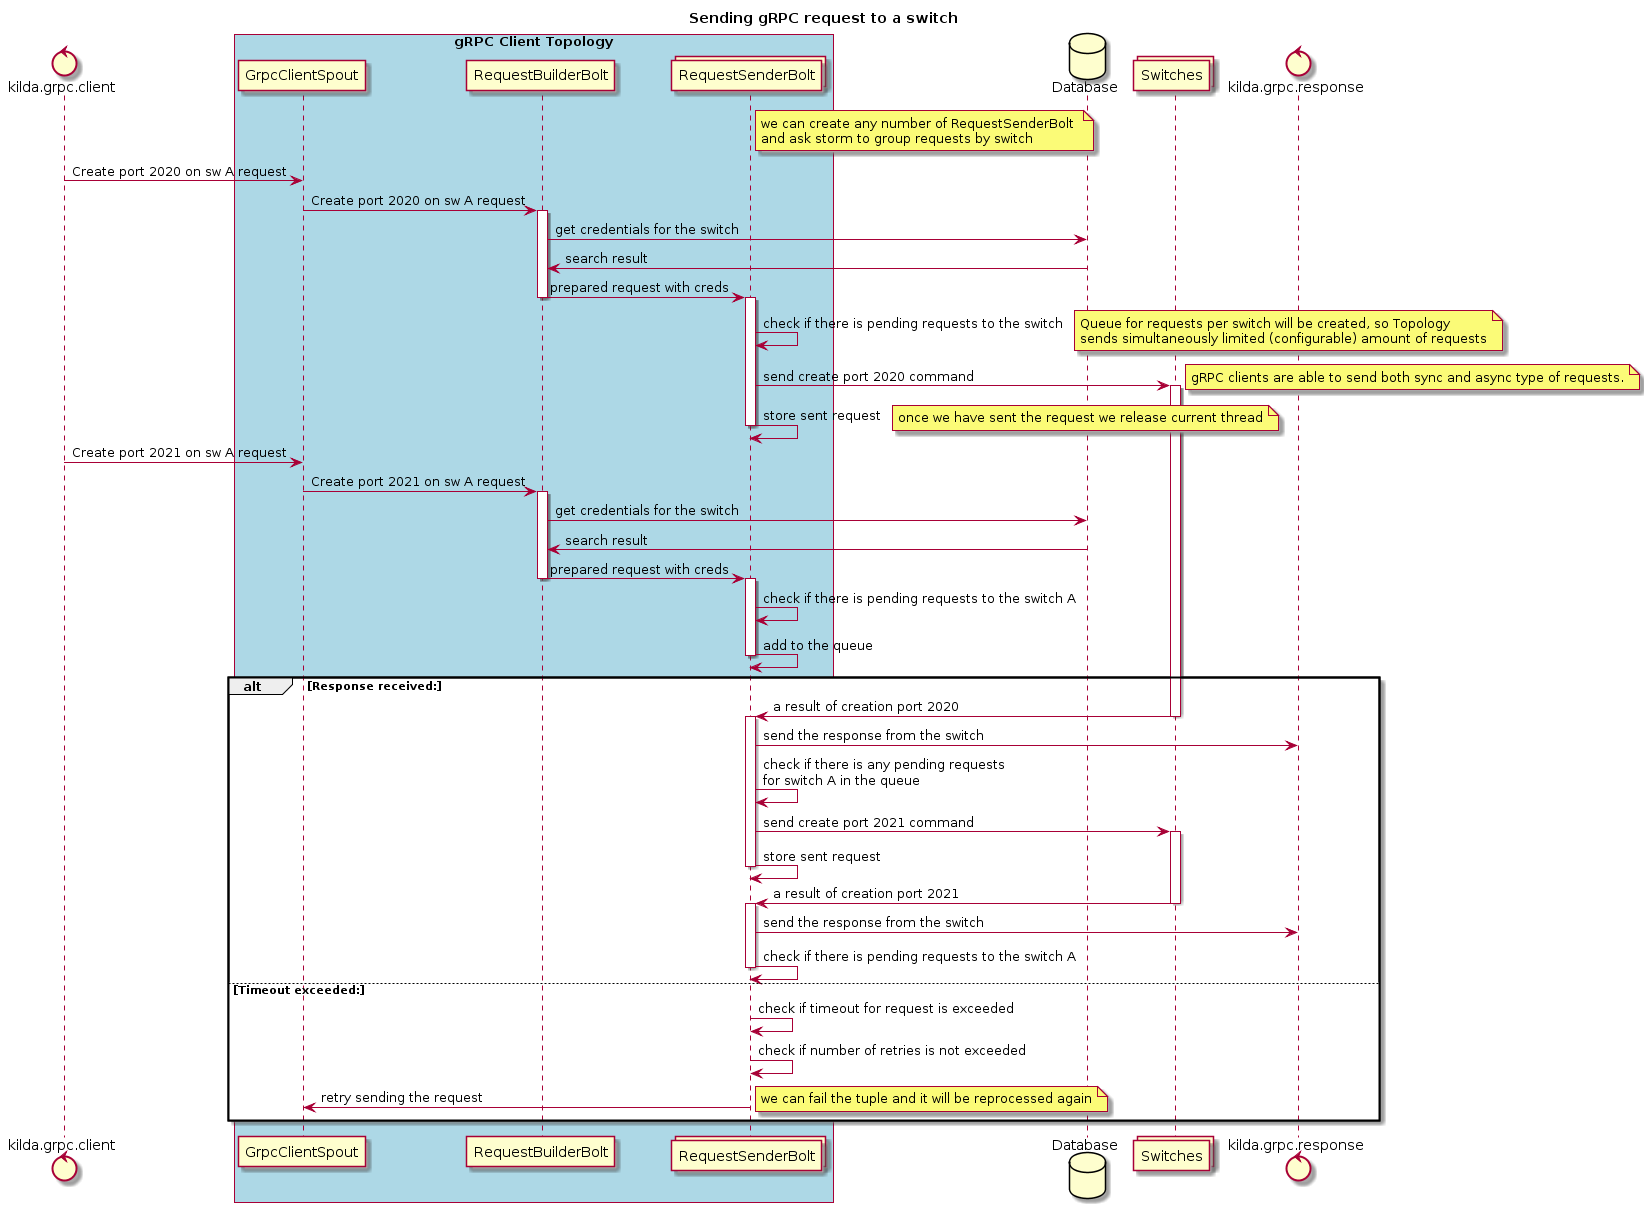
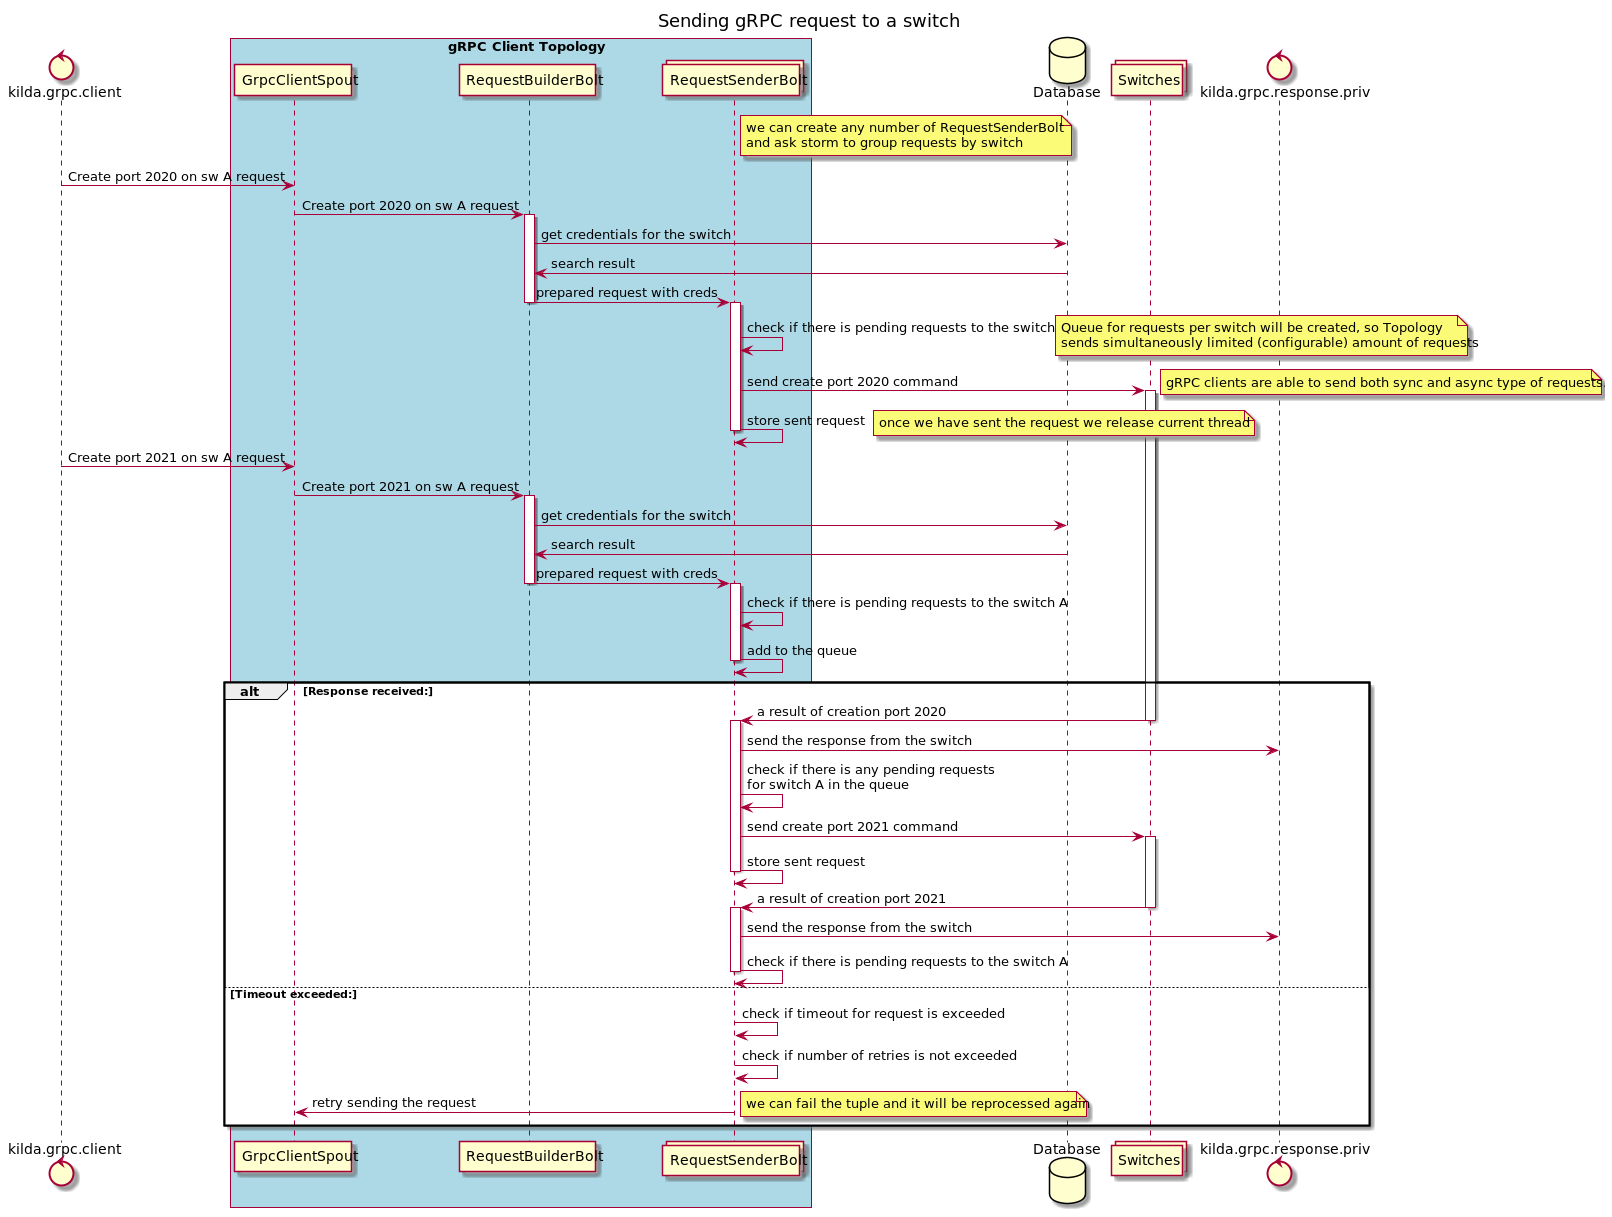
GRPC speaker messaging refactor
* moved hardcoded response topic to config
* renamed response topic from 'grpc.response' to 'kilda.grpc.response.priv'
* changed message handling from CommandData to Message

diff --git a/src-java/grpc-speaker/grpc-service/src/main/java/org/openkilda/grpc/speaker/messaging/MessageProcessor.java b/src-java/grpc-speaker/grpc-service/src/main/java/org/openkilda/grpc/speaker/messaging/MessageProcessor.java
@@ -17,18 +17,24 @@ package org.openkilda.grpc.speaker.messaging;
 
 import org.openkilda.grpc.speaker.mapper.RequestMapper;
 import org.openkilda.grpc.speaker.service.GrpcSenderService;
+import org.openkilda.messaging.Message;
 import org.openkilda.messaging.command.CommandData;
+import org.openkilda.messaging.command.CommandMessage;
 import org.openkilda.messaging.command.grpc.CreateLogicalPortRequest;
 import org.openkilda.messaging.command.grpc.DumpLogicalPortsRequest;
 import org.openkilda.messaging.command.grpc.GetSwitchInfoRequest;
 import org.openkilda.messaging.info.InfoData;
+import org.openkilda.messaging.info.InfoMessage;
 import org.openkilda.messaging.info.grpc.CreateLogicalPortResponse;
 import org.openkilda.messaging.info.grpc.DumpLogicalPortsResponse;
 import org.openkilda.messaging.info.grpc.GetSwitchInfoResponse;
 
+import lombok.extern.slf4j.Slf4j;
 import org.springframework.beans.factory.annotation.Autowired;
+import org.springframework.beans.factory.annotation.Value;
 import org.springframework.stereotype.Component;
 
+@Slf4j
 @Component
 public class MessageProcessor {
 
@@ -41,34 +47,66 @@ public class MessageProcessor {
     @Autowired
     RequestMapper requestMapper;
 
+    @Value("#{kafkaTopicsConfig.getGrpcResponseTopic()}")
+    private String grpcResponseTopic;
+
     // TODO error handling
 
     /**
      * Process request.
      *
-     * @param command a command data.
+     * @param message a message to be processed
      */
-    public void processRequest(CommandData command) {
-        if (command instanceof CreateLogicalPortRequest) {
-            CreateLogicalPortRequest req = (CreateLogicalPortRequest) command;
-            service.createLogicalPort(req.getAddress(), requestMapper.toLogicalPort(req))
-                    .thenAccept(e -> sendResponse(new CreateLogicalPortResponse(req.getAddress(), e, true)));
-
-        } else if (command instanceof DumpLogicalPortsRequest) {
-            DumpLogicalPortsRequest req = (DumpLogicalPortsRequest) command;
-            service.dumpLogicalPorts(req.getAddress())
-                    .thenAccept(e -> sendResponse(new DumpLogicalPortsResponse(req.getAddress(), e)));
-
-        } else if (command instanceof GetSwitchInfoRequest) {
-            GetSwitchInfoRequest req = (GetSwitchInfoRequest) command;
-            service.getSwitchStatus(req.getAddress())
-                    .thenAccept(e -> sendResponse(new GetSwitchInfoResponse(req.getAddress(), e)));
-
+    public void processRequest(Message message) {
+        if (message instanceof CommandMessage) {
+            handleCommandMessage((CommandMessage) message);
+        } else {
+            unhandledMessage(message);
         }
     }
 
-    private void sendResponse(InfoData message) {
-        // TODO topic hardcode
-        messageProducer.send("grpc.response", message);
+    private void handleCommandMessage(CommandMessage command) {
+        CommandData data = command.getData();
+        String correlationId = command.getCorrelationId();
+
+        if (data instanceof CreateLogicalPortRequest) {
+            handleCreateLogicalPortRequest((CreateLogicalPortRequest) data, correlationId);
+        } else if (data instanceof DumpLogicalPortsRequest) {
+            handleDumpLogicalPortsRequest((DumpLogicalPortsRequest) data, correlationId);
+        } else if (data instanceof GetSwitchInfoRequest) {
+            handleGetSwitchInfoRequest((GetSwitchInfoRequest) data, correlationId);
+        } else {
+            unhandledMessage(command);
+        }
+    }
+
+    private void handleCreateLogicalPortRequest(CreateLogicalPortRequest request, String correlationId) {
+        log.info("Creating logical port {} on switch {}", request.getLogicalPortNumber(), request.getAddress());
+        service.createLogicalPort(request.getAddress(), requestMapper.toLogicalPort(request))
+                .thenAccept(port -> sendResponse(
+                        new CreateLogicalPortResponse(request.getAddress(), port, true), correlationId));
+    }
+
+    private void handleDumpLogicalPortsRequest(DumpLogicalPortsRequest request, String correlationId) {
+        log.debug("Dumping logical ports on switch {}", request.getAddress());
+        service.dumpLogicalPorts(request.getAddress())
+                .thenAccept(ports -> sendResponse(
+                        new DumpLogicalPortsResponse(request.getAddress(), ports), correlationId));
+    }
+
+    private void handleGetSwitchInfoRequest(GetSwitchInfoRequest request, String correlationId) {
+        log.debug("Getting switch info for switch {}", request.getAddress());
+        service.getSwitchStatus(request.getAddress())
+                .thenAccept(status -> sendResponse(
+                        new GetSwitchInfoResponse(request.getAddress(), status), correlationId));
+    }
+
+    private void sendResponse(InfoData data, String correlationId) {
+        InfoMessage message = new InfoMessage(data, System.currentTimeMillis(), correlationId);
+        messageProducer.send(grpcResponseTopic, message);
+    }
+
+    private void unhandledMessage(Message message) {
+        log.error("GRPC speaker is unable to handle message {}", message);
     }
 }

diff --git a/src-java/grpc-speaker/grpc-service/src/main/java/org/openkilda/grpc/speaker/messaging/KafkaMessageProducer.java b/src-java/grpc-speaker/grpc-service/src/main/java/org/openkilda/grpc/speaker/messaging/KafkaMessageProducer.java
@@ -15,7 +15,7 @@
 
 package org.openkilda.grpc.speaker.messaging;
 
-import org.openkilda.messaging.info.InfoData;
+import org.openkilda.messaging.Message;
 
 import lombok.extern.slf4j.Slf4j;
 import org.springframework.beans.factory.annotation.Autowired;
@@ -32,14 +32,13 @@ import org.springframework.util.concurrent.ListenableFuture;
 public class KafkaMessageProducer {
 
     @Autowired
-    private KafkaTemplate<String, InfoData> kafkaTemplate;
+    private KafkaTemplate<String, Message> kafkaTemplate;
 
     /**
      * Sends message to kafka topic.
      */
-    // TODO seems like message should be Message subclass
-    public ListenableFuture<SendResult<String, InfoData>> send(String topic, InfoData message) {
-        ListenableFuture<SendResult<String, InfoData>> future = kafkaTemplate.send(topic, message);
+    public ListenableFuture<SendResult<String, Message>> send(String topic, Message message) {
+        ListenableFuture<SendResult<String, Message>> future = kafkaTemplate.send(topic, message);
         future.addCallback(
                 success -> log.debug("Response has been sent: topic={}, message={}", topic, message),
                 error -> log.error("Unable to send message: topic={}, message={}", topic, message, error)

diff --git a/src-java/grpc-speaker/grpc-service/src/main/java/org/openkilda/grpc/speaker/config/MessageProducerConfig.java b/src-java/grpc-speaker/grpc-service/src/main/java/org/openkilda/grpc/speaker/config/MessageProducerConfig.java
@@ -15,7 +15,7 @@
 
 package org.openkilda.grpc.speaker.config;
 
-import org.openkilda.messaging.info.InfoData;
+import org.openkilda.messaging.Message;
 
 import org.apache.kafka.clients.producer.ProducerConfig;
 import org.apache.kafka.common.serialization.StringSerializer;
@@ -69,7 +69,7 @@ public class MessageProducerConfig {
      * @return kafka producer factory
      */
     @Bean
-    public ProducerFactory<String, InfoData> producerFactory() {
+    public ProducerFactory<String, Message> producerFactory() {
         return new DefaultKafkaProducerFactory<>(producerConfigs());
     }
 
@@ -80,7 +80,7 @@ public class MessageProducerConfig {
      * @return kafka template
      */
     @Bean
-    public KafkaTemplate<String, InfoData> kafkaTemplate() {
+    public KafkaTemplate<String, Message> kafkaTemplate() {
         return new KafkaTemplate<>(producerFactory());
     }
 }

diff --git a/src-java/grpc-speaker/grpc-service/src/main/java/org/openkilda/grpc/speaker/messaging/KafkaMessageListener.java b/src-java/grpc-speaker/grpc-service/src/main/java/org/openkilda/grpc/speaker/messaging/KafkaMessageListener.java
@@ -15,7 +15,7 @@
 
 package org.openkilda.grpc.speaker.messaging;
 
-import org.openkilda.messaging.command.CommandMessage;
+import org.openkilda.messaging.Message;
 
 import lombok.extern.slf4j.Slf4j;
 import org.springframework.beans.factory.annotation.Autowired;
@@ -40,8 +40,8 @@ public class KafkaMessageListener {
      * @param message received  message.
      */
     @KafkaHandler
-    public void onMessage(CommandMessage message) {
+    public void onMessage(Message message) {
         log.debug("Message received: {} - {}", Thread.currentThread().getId(), message);
-        messageProcessor.processRequest(message.getData());
+        messageProcessor.processRequest(message);
     }
 }

diff --git a/src-java/kilda-configuration/src/main/java/org/openkilda/config/KafkaTopicsConfig.java b/src-java/kilda-configuration/src/main/java/org/openkilda/config/KafkaTopicsConfig.java
@@ -227,4 +227,8 @@ public interface KafkaTopicsConfig {
     @Key("topo.floodlight.connected.devices.region")
     @Default("kilda.floodlight.connected.devices.priv")
     String getTopoConnectedDevicesRegionTopic();
+
+    @Key("grpc.response")
+    @Default("kilda.grpc.response.priv")
+    String getGrpcResponseTopic();
 }
